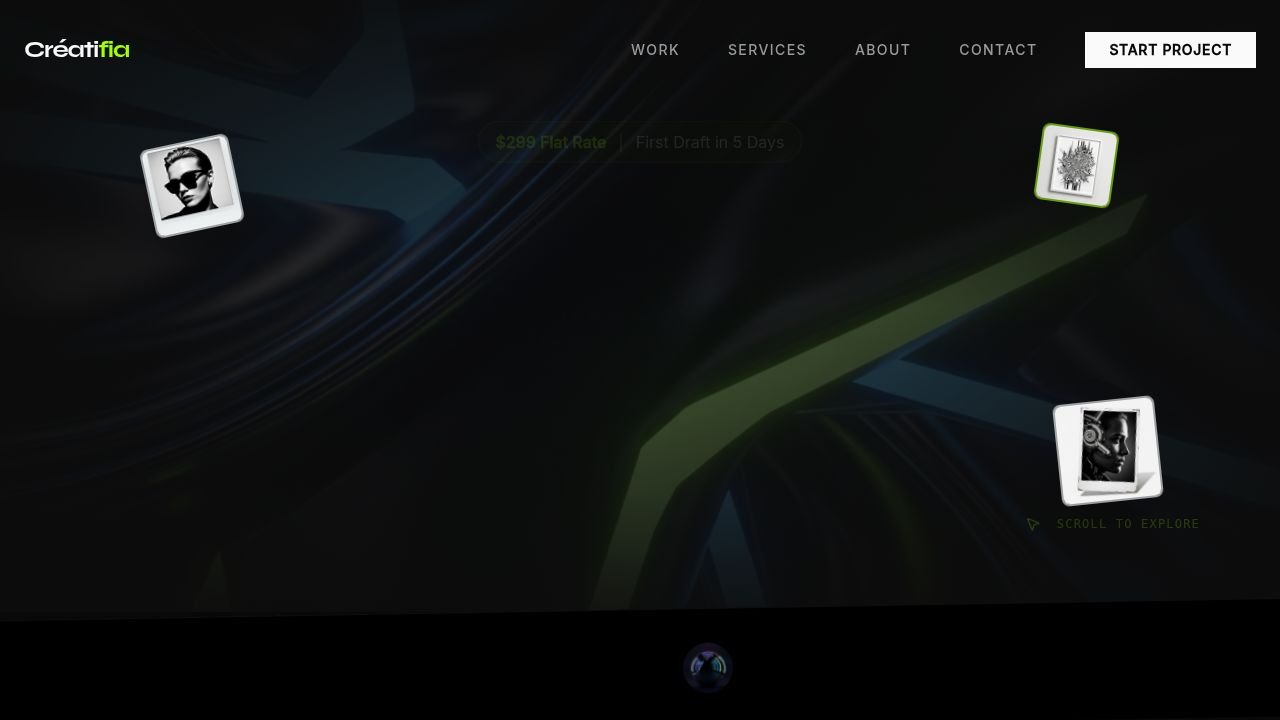
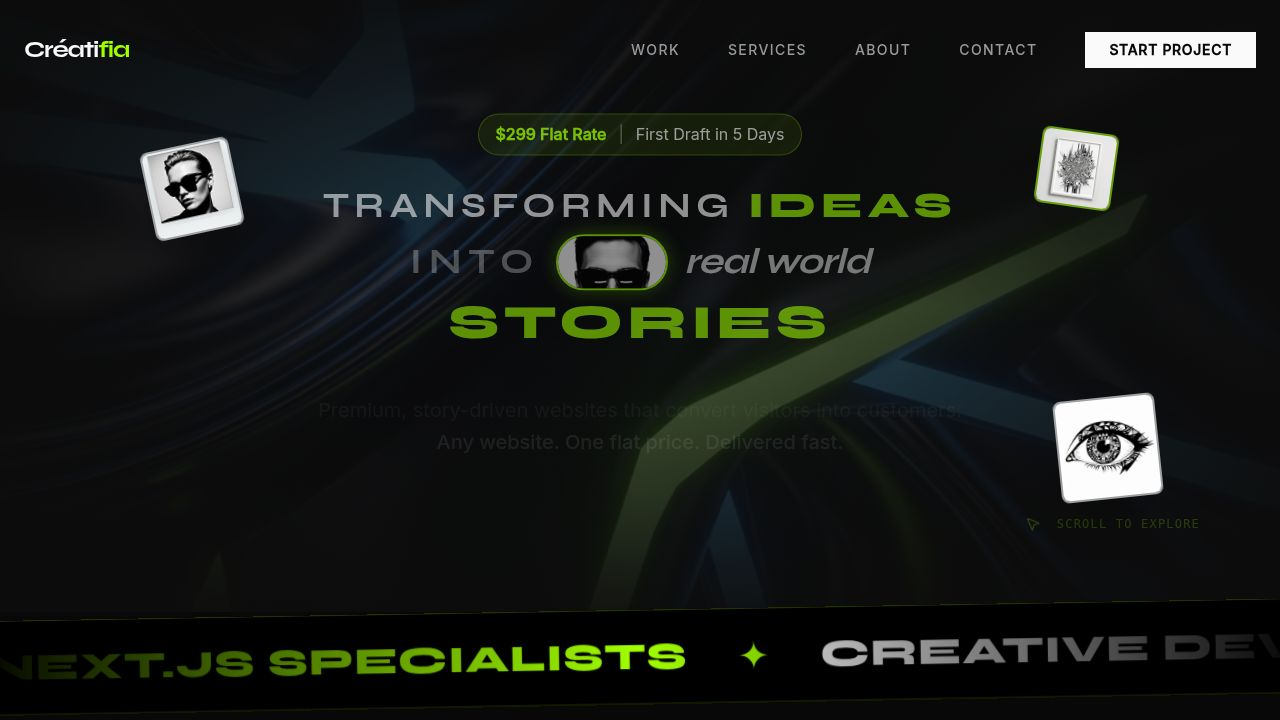
Update hero section portrait to a pill shape with accent border
Modify the hero section's developer portrait from a circular image to a horizontally pill-shaped div with rounded corners and an accent border. Adjust the internal image to be larger and positioned to show only the upper facial area, maintaining the existing hover effects and shadow styling.

Replit-Commit-Author: Agent
Replit-Commit-Session-Id: aa901487-d86e-4758-8fdb-1e46351b3fc7
Replit-Commit-Checkpoint-Type: intermediate_checkpoint
Replit-Commit-Event-Id: 1fe7e3e2-585d-44f8-9f5c-30416aa04a21
Replit-Commit-Screenshot-Url: https://storage.googleapis.com/screenshot-production-us-central1/0a1adc62-92b0-4a03-a96c-65dfef2bb2b2/aa901487-d86e-4758-8fdb-1e46351b3fc7/iJxIlaK
Replit-Helium-Checkpoint-Created: true

diff --git a/client/src/pages/home.tsx b/client/src/pages/home.tsx
@@ -237,17 +237,19 @@ export default function Home() {
                       </h1>
                       <motion.div 
                         className="relative group cursor-pointer"
-                        whileHover={{ scale: 1.2, rotate: 5 }}
+                        whileHover={{ scale: 1.15, rotate: 3 }}
                         whileTap={{ scale: 0.95 }}
                         transition={{ type: "spring", stiffness: 400, damping: 17 }}
                       >
-                        <img 
-                          src={portrait} 
-                          alt="Developer" 
-                          className="w-10 h-10 md:w-14 md:h-14 lg:w-16 lg:h-16 object-cover rounded-full border-2 border-accent shadow-[0_0_20px_rgba(145,255,0,0.4)] group-hover:shadow-[0_0_40px_rgba(145,255,0,0.7)] transition-shadow duration-300"
-                          loading="eager"
-                          decoding="async"
-                        />
+                        <div className="w-16 h-8 md:w-24 md:h-12 lg:w-28 lg:h-14 rounded-full border-2 border-accent overflow-hidden shadow-[0_0_20px_rgba(145,255,0,0.4)] group-hover:shadow-[0_0_40px_rgba(145,255,0,0.7)] transition-shadow duration-300">
+                          <img 
+                            src={portrait} 
+                            alt="Developer" 
+                            className="w-full h-[200%] object-cover object-top"
+                            loading="eager"
+                            decoding="async"
+                          />
+                        </div>
                         <div className="absolute inset-0 rounded-full bg-accent/20 opacity-0 group-hover:opacity-100 group-hover:animate-ping transition-opacity" />
                       </motion.div>
                       <h1 className="text-xl sm:text-2xl md:text-3xl lg:text-4xl font-display leading-[1.3]">